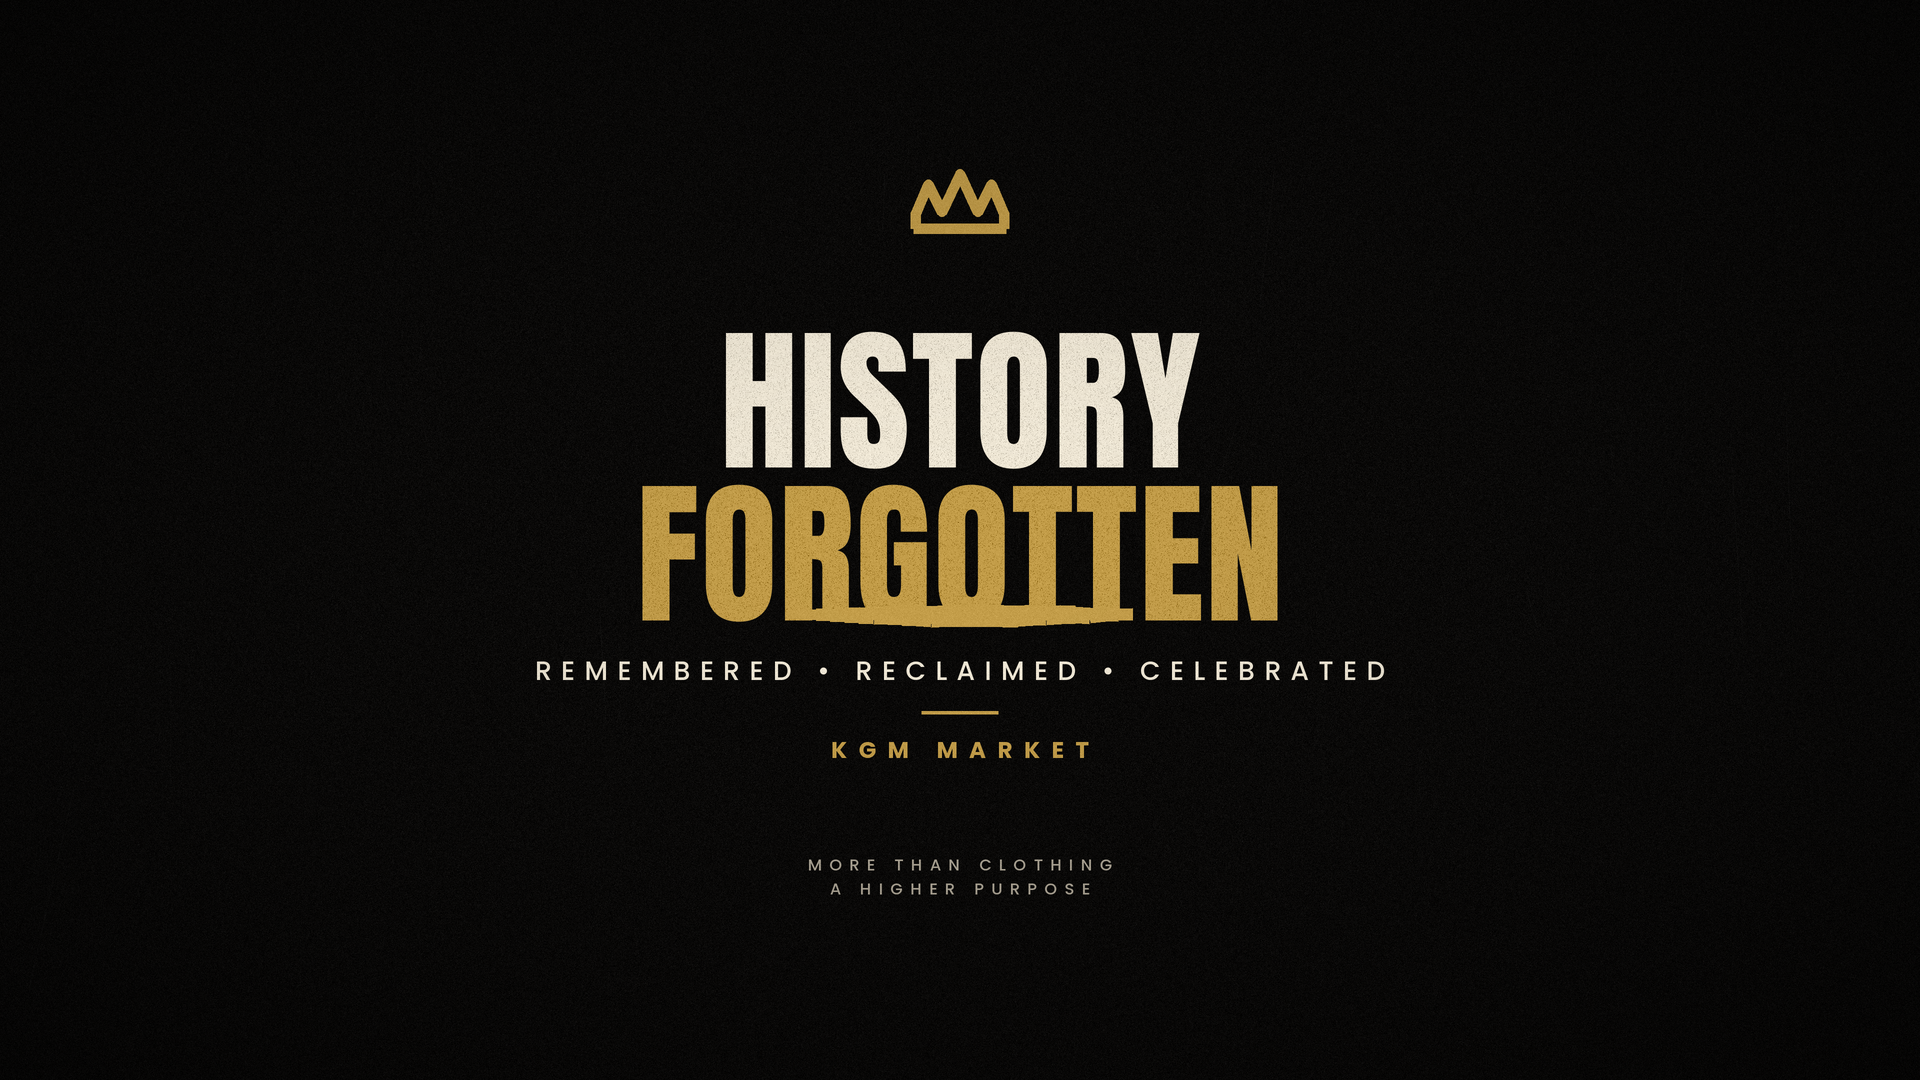
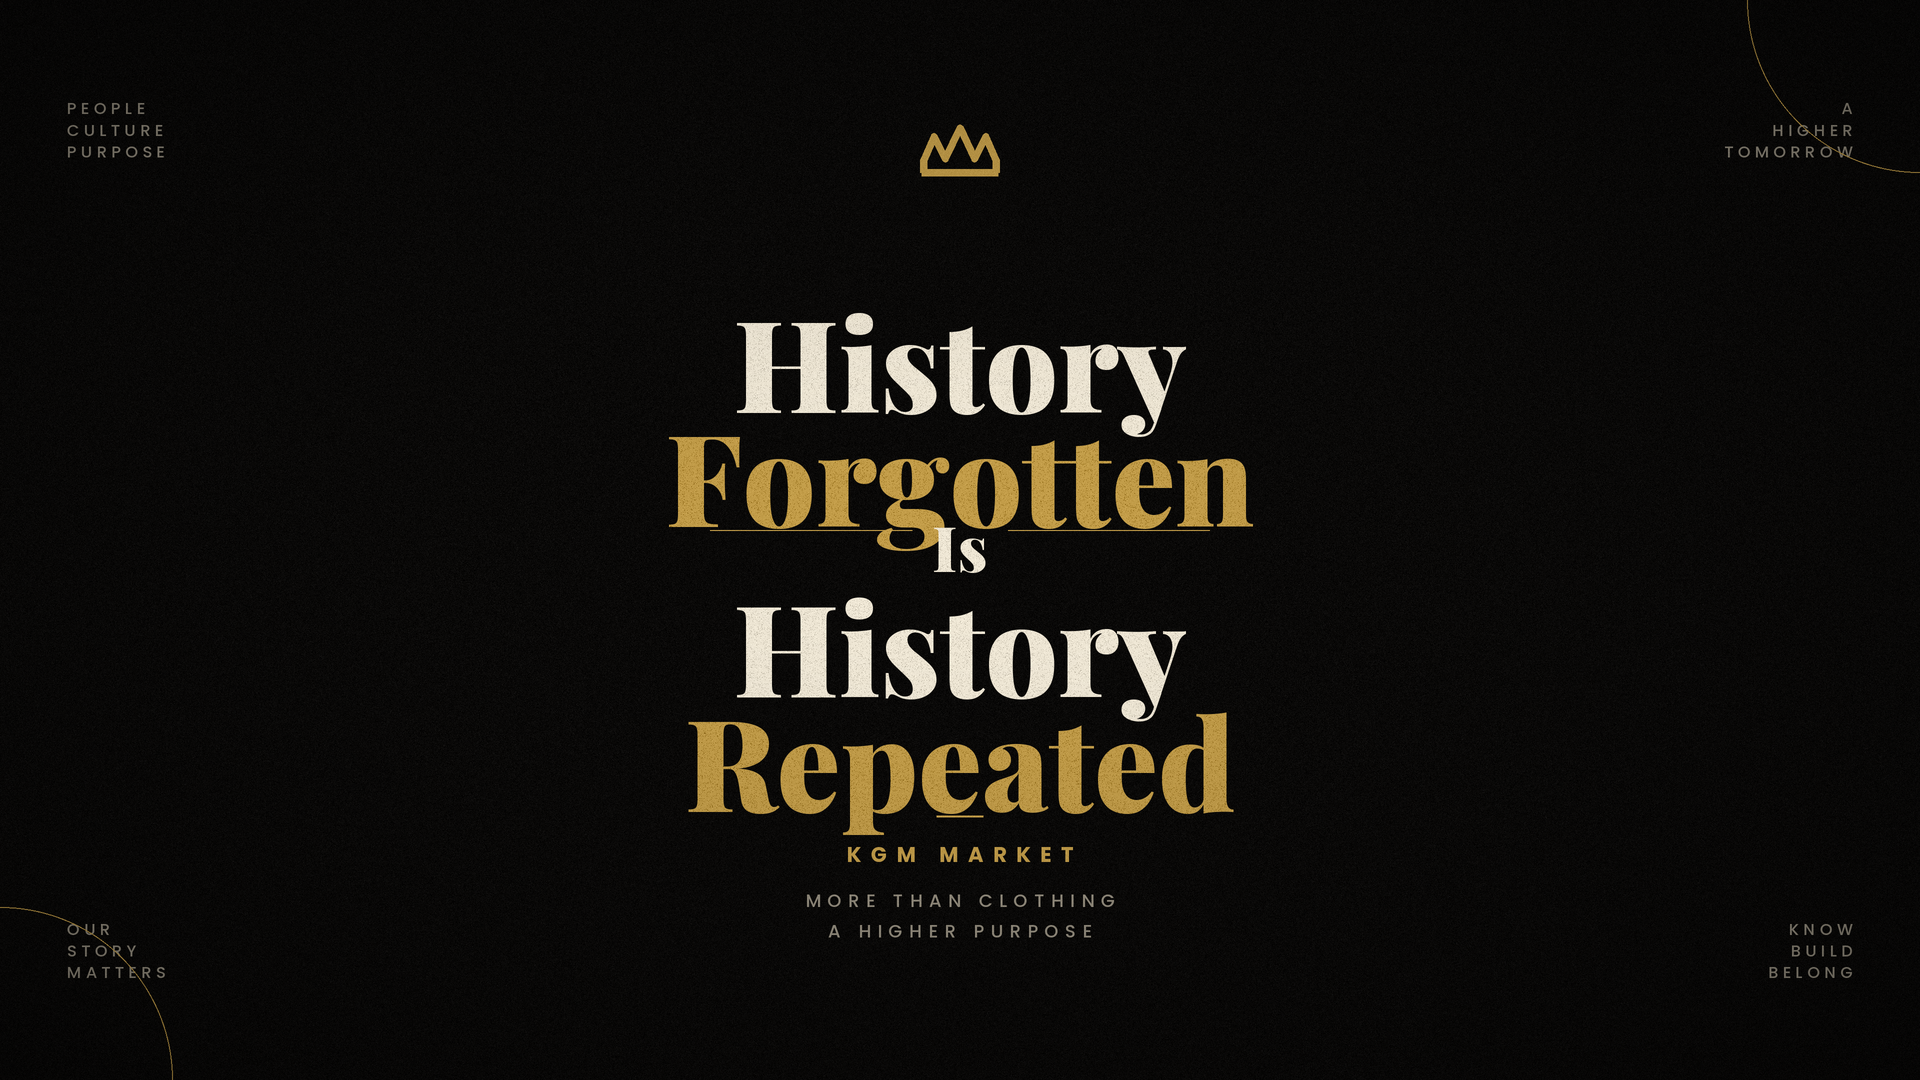
Update History Forgotten design and add I Stand wallpaper

diff --git a/culture-pack/index.html b/culture-pack/index.html
@@ -107,7 +107,7 @@
   <div class="card">
     <div class="card-eyebrow">03 &middot; Decorate</div>
     <h2>Wallpapers</h2>
-    <p>Five designs, sized for your phone and your desktop. Tap a size to download and set as your background.</p>
+    <p>Six designs, sized for your phone and your desktop. Tap a size to download and set as your background.</p>
     <div class="wallpaper-grid">
       <div class="wallpaper-item">
         <div class="name">Black Men Matter</div>
@@ -129,10 +129,15 @@
         <a href="wallpapers/kgm-wallpaper-protect-black-children-phone.png" download>Phone</a>
         <a href="wallpapers/kgm-wallpaper-protect-black-children-desktop.png" download>Desktop</a>
       </div>
-      <div class="wallpaper-item" style="grid-column: span 2;">
+      <div class="wallpaper-item">
         <div class="name">Protect Black Women</div>
         <a href="wallpapers/kgm-wallpaper-protect-black-women-phone.png" download>Phone</a>
         <a href="wallpapers/kgm-wallpaper-protect-black-women-desktop.png" download>Desktop</a>
+      </div>
+      <div class="wallpaper-item">
+        <div class="name">I Stand for the Culture</div>
+        <a href="wallpapers/kgm-wallpaper-i-stand-phone.png" download>Phone</a>
+        <a href="wallpapers/kgm-wallpaper-i-stand-desktop.png" download>Desktop</a>
       </div>
     </div>
   </div>
